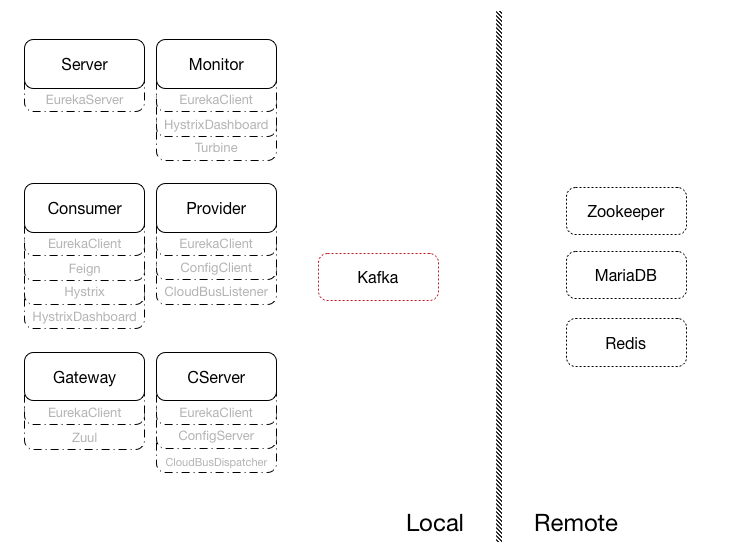
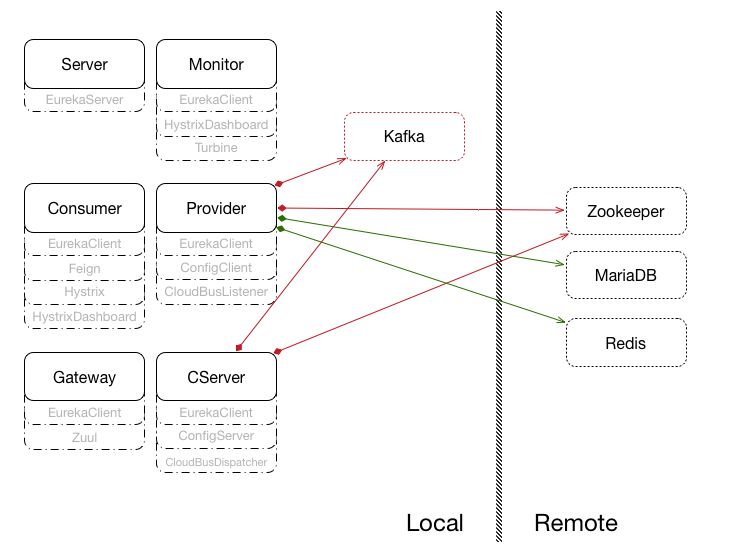
说明文件更新

diff --git a/README.md b/README.md
@@ -18,6 +18,18 @@ ps.1：中间件安装网上资料丰富，不再赘述
 ps.2：kafka原本也应该装在服务器上，但是由于kafka配置中的listeners和advitised.listeners很混乱，无论怎么配置总是出现leader\_not\_available，网上也无法找到更好的解决办法，为了保证原计划进度，将kafka搭建在了本地机器中，顺利运行。对于leader\_not\_available问题，需要后续持续跟进。
 
 # 介绍
+区别于上一个repo，本次完成的内容完全基于spring cloud的组件进行搭建：
+
+EurekaServer--注册中心，所有服务模块均作为EurekaClient注册于注册中心
+
+ConfigServer--配置中心，时刻监听git服务器配置文件的变更，通过SpringCloudBus结合kafka和zookeeper发送RefreshRemoteApplicationEvent通知ConfigClient对相关配置进行更新操作
+
+Turbine--监控中心，对部署过Hystrix的服务进行监控，通过图表化的方式HystrixDashboard进行展示
+
+Feign--远程调用，默认已经使用ribbon进行负载均衡
+
+Zuul--前置网关，对客户端请求进行分发，起到负载均衡的目的。但是该组件的性能并不如nginx，实际使用中需要二者进行结合使用
+
 
 ## 模块关系图
 ![Image text](https://github.com/TuataraRjan/ms-ssrmm/blob/master/assets/Introduction-1.png)
@@ -25,9 +37,15 @@ ps.2：kafka原本也应该装在服务器上，但是由于kafka配置中的lis
 ## local与remote
 ![Image text](https://github.com/TuataraRjan/ms-ssrmm/blob/master/assets/Introduction-3.png)
 
+前文中已经对kafka部署的问题进行了描述，不再赘述
+
 ## spring cloud 关系图
 ![Image text](https://github.com/TuataraRjan/ms-ssrmm/blob/master/assets/Introduction-2.png)
 
+## 请求流向
+![Image text](https://github.com/TuataraRjan/ms-ssrmm/blob/master/assets/Introduction-4.png)
+
+途中所示红色、绿色、紫色分别代表客户、配置管理、Admin三种不同的角色在对系统进行访问时的请求流向
 
 
 
